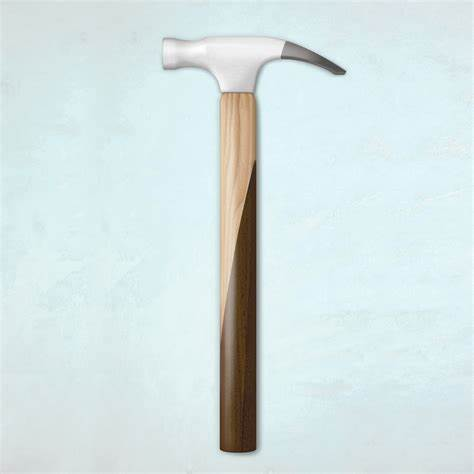
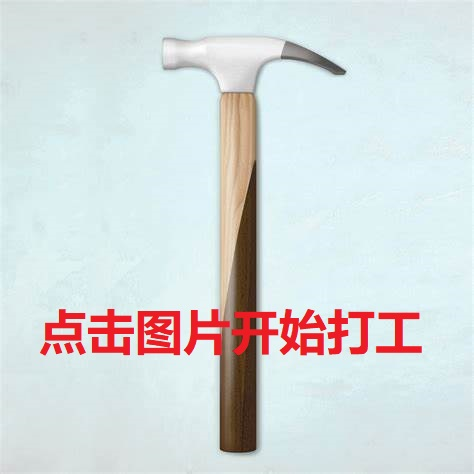
8.25

Changed region(s): [[0.0886, 0.6498, 0.8861, 0.7679]]

diff --git a/index.html b/index.html
@@ -1,5 +1,5 @@
 <!DOCTYPE html>
-<html lang="en">
+<html lang="en" style="height:100%;">
 <link href="bootstrap.min.css" rel="stylesheet">
 <script src="jquery.min.js"></script>
 <script src="bootstrap.min.js"></script>
@@ -11,91 +11,62 @@
 
 
 
-<body>
-    <div class="container-md">
+<body style="margin:0;height:100%;">
+    <div class="container-fluid" style="height:30%">
         <div class="row">
             <div class="col">
-                <p id="EnergyText" style="font-size: 40px;">Energy</p>
+                <p id="EnergyText" style="font-size: 60px; margin: 10px;">体力</p>
             </div>
             <div class="col">
-                <p id="MoneyText" class="fs-1">Money</p>
+                <button type="button" class="btn btn-outline-primary" style="height:80%; width:60%; margin: 10px;float:right; font-size: 40px" data-bs-toggle="modal" data-bs-target="#exampleModal">查看物品</button>
             </div>
-            <div class="col">
-                <p id="DepthText" class="fs-1">Depth</p>
-            </div>
-          </div>
+        </div>
+        <p id="MoneyText" style="font-size: 60px; margin: 10px;">金钱</p>      
     </div>
 
-    <div class="container-md">
-      <button type="button" id="TestButton" class="btn btn-outline-primary" onclick="ShowEnergy()" data-toggle="tooltip" data-placement="left" title="tip_message">Change</button>
-      <button type="button" id="FlyButton" class="btn btn-outline-primary" onclick="MoveItem()" data-toggle="tooltip" title="tip_message">Fly</button>
-      <button type="button" class="btn btn-outline-primary" data-bs-toggle="modal" data-bs-target="#exampleModal">Launch demo modal</button>
-      <button type="button" id="WorkButton" class="btn btn-outline-primary" onclick="TryWork()">Work</button>
-      <button type="button" id="RelaxButton" class="btn btn-outline-primary" onclick="TryRelax()">Relax</button>
+    <div class="container-fluid" style="height:10%">
+        <p id="DepthText" style="font-size: 60px; max-width:100%; max-height:100%; text-align:center">已连续工作0小时</p>
     </div>
-    
-    <div class="container-md">
-        <img src="hammer.jpg" class="img-fluid" alt="test img">
+
+    <div class="container-fluid" style="height:30%">
+        <img src="hammer.jpg" style="max-width:80%; max-height:80%; width:auto; height:auto; margin: auto; display: flex; justify-content: center; align-items: center;" alt="imgtest" class="img-fluid" onclick="TryWork()">    
     </div>    
       
-    <div class="container-md">
-      <div class="modal fade" id="exampleModal" tabindex="-1" aria-labelledby="exampleModalLabel" aria-hidden="true">
-        <div class="modal-dialog">
-          <div class="modal-content">
+    <div class="container-fluid" style="height: 10%; text-align:center">
+        <button type="button" id="RelaxButton" class="btn btn-outline-primary" style="width:30%; font-size: 40px;" onclick="TryRelax()">休息</button>
+    </div>
+
+    <div class="container-fluid">
+      <div class="modal fade" id="exampleModal" tabindex="-1" aria-labelledby="exampleModalLabel" aria-hidden="true" style="width: 100%;">
+        <div class="modal-dialog" style="top:10%; width:80vw;">
+          <div class="modal-content" style="">
             <div class="modal-header">
-              <h5 class="modal-title" id="exampleModalLabel">Modal title</h5>
+              <h5 class="modal-title" id="exampleModalLabel">物品详情</h5>
               <button type="button" class="btn-close" data-bs-dismiss="modal" aria-label="Close"></button>
             </div>
             <div class="modal-body">
-              <table class="table" id="datatable" data-toggle="tooltip" data-placement="left" title="tip_message">
-                <th>1</th>
-                <th>2</th>
-                <th>3</th>
-                <th>4</th>
-              </table>
+              <div class="container-fluid" style="height:30vh; overflow:auto">
+                <div id="ItemList" class="row row-cols-1 row-cols-lg-4 g-2 g-lg-3">
+                  
+                </div>
+              </div>
+              <div class="container-fluid" style="height:30vh; border-style:solid; border-color:brown">
+                <div id="ItemName" style="white-space:normal; word-break:break-all;overflow:hidden;">道具名</div>
+                <div id="ItemDiscription" style="white-space:normal; word-break:break-all;overflow:hidden;">道具描述</div>
+                <div id="EffectDiscription" style="white-space:normal; word-break:break-all;overflow:hidden;">道具效果</div>
+              </div>
             </div>
             <div class="modal-footer">
-              <button type="button" class="btn btn-secondary" data-bs-dismiss="modal">Close</button>
-              <button type="button" class="btn btn-primary">Save changes</button>
+              <button type="button" class="btn btn-secondary" data-bs-dismiss="modal">关闭</button>
+              <button id="BuyButton" disabled="true" onclick="BuyItem()" type="button" class="btn btn-primary">买</button>
             </div>
           </div>
         </div>
       </div>  
     </div> 
 
-    <div class="container-md" style="height: 200px; overflow:auto">
-      <div class="row row-cols-2 row-cols-lg-4 g-2 g-lg-3">
-        <div class="col">
-          <div class="p-3 border bg-light">Row column</div>
-        </div>
-        <div class="col">
-          <div class="p-3 border bg-light">Row column</div>
-        </div>
-        <div class="col">
-          <div class="p-3 border bg-light">Row column</div>
-        </div>
-        <div class="col">
-          <div class="p-3 border bg-light">Row column</div>
-        </div>
-        <div class="col">
-          <div class="p-3 border bg-light">Row column</div>
-        </div>
-        <div class="col">
-          <div class="p-3 border bg-light">Row column</div>
-        </div>
-        <div class="col">
-          <div class="p-3 border bg-light">Row column</div>
-        </div>
-        <div class="col">
-          <div class="p-3 border bg-light">Row column</div>
-        </div>
-        <div class="col">
-          <div class="p-3 border bg-light">Row column</div>
-        </div>
-        <div class="col">
-          <div class="p-3 border bg-light">Row column</div>
-        </div>
-      </div>
+    <div id="MessageBox" class="container-fluid" style="height: 20%; width:auto; overflow:auto; text-align:center; border-style:solid; border-color:blueviolet">
+        
     </div>
     
 </body>
@@ -105,33 +76,27 @@
     var i = 0;
 
     window.onload = function LoadData() {
-        var table = document.getElementById("datatable");
-        for(var i=0;i<worker.items.length;i++){
-            var row=table.insertRow(table.rows.length);
-            var c1=row.insertCell(0);
-            c1.innerHTML=worker.items[i].ItemID;
-            var c2=row.insertCell(1);
-            c2.innerHTML=worker.items[i].ItemName;
-            var c3=row.insertCell(2);
-            c3.innerHTML=worker.items[i].ItemDiscription;
-            var c4=row.insertCell(3);
-            c4.innerHTML=worker.items[i].ItemOnable;
-        }
+        let item_list = document.getElementById("ItemList")
+        for (let j=0;j<worker.items.length;j++) {
+            item_list.insertAdjacentHTML("beforeend",'<div class="col" style="font-size:30px" onclick="ShowMessage(this)"><div id=item_' + worker.items[j]["ItemID"] + ' class="p-3 border bg-light">'+ worker.items[j]["ItemName"] +'</div></div>');
+        } 
+    }
+
+    window.onunload = function SetCookie() {
+      
     }
 
     function ShowEnergy() {
-        var energy_text = document.getElementById("EnergyText");
-        var money_text = document.getElementById("MoneyText");
-        var depth_text = document.getElementById("DepthText")
-        var button = document.getElementById("TestButton");
-        energy_text.innerText = "Energy:" + worker.energy;
-        money_text.innerText = "Money:" + worker.money;
-        depth_text.innerText = "Depth:" + worker.depth;
-        button.innerText = "fine";
+        let energy_text = document.getElementById("EnergyText");
+        let money_text = document.getElementById("MoneyText");
+        let depth_text = document.getElementById("DepthText");
+        energy_text.innerText = "体力:" + worker.energy;
+        money_text.innerText = "金钱:" + worker.money;
+        depth_text.innerText = "已连续工作:" + worker.depth + "小时";
     }
 
     function MoveItem() {
-        var money_text = document.getElementById("MoneyText");
+        let money_text = document.getElementById("MoneyText");
         money_text.style.position = "absolute"  
 
         if(i<800) {
@@ -147,11 +112,52 @@
     function TryWork() {
         worker.Work();
         ShowEnergy();
+        SendMessage();
     }
 
     function TryRelax() {
         worker.Relax();
         ShowEnergy();
+    }
+
+    function SendMessage() {
+        let message_box = document.getElementById("MessageBox");
+        message_box.insertAdjacentHTML("beforeend","<h1>work success</h1>");
+        message_box.scrollTop = message_box.scrollHeight;
+    }
+
+    //点击物品展示信息
+    function ShowMessage(obj) {
+        let item_name = document.getElementById("ItemName");
+        let item_discription = document.getElementById("ItemDiscription");
+        let effect_discription = document.getElementById("EffectDiscription");
+        let buy_button = document.getElementById("BuyButton");
+
+        let item_id = window.event.srcElement.id;
+        worker.item = item_id.charAt(item_id.length - 1);    //获取点击物品id
+        
+        item_name.innerText ="物品名：" + worker.items[worker.item]["ItemName"];
+        item_discription.innerText ="物品描述:" + worker.items[worker.item]["ItemDiscription"];
+        effect_discription.innerText ="物品效果:" + worker.items[worker.item]["EffectDiscription"];
+
+        if(worker.money >= worker.items[worker.item]["ItemPrice"] && worker.items[worker.item]["ItemOnable"]==0) {
+            buy_button.disabled = false
+        } else {
+            buy_button.disabled = true
+        }
+
+        if(worker.items[worker.item]["ItemOnable"]==1) {    //如果已经有了
+            buy_button.innerText = "已拥有";
+        } else {
+            buy_button.innerText = "买";
+        }
+    }
+
+    function BuyItem() {
+        let buy_button = document.getElementById("BuyButton");
+        buy_button.disabled = true
+        worker.items[worker.item]["ItemOnable"] = 1;
+        worker.money -= worker.items[worker.item]["ItemPrice"];
     }
 
     (function () { $("[data-toggle='tooltip']").tooltip(); });

diff --git a/worker.js b/worker.js
@@ -4,20 +4,30 @@ class Worker {
         this.energy = this.start_energy;
         this.money = 0;
         this.depth = 0;
-        this.items = [{"ItemID":0,"ItemName":"1","ItemDiscription":"None","ItemOnable":0},
-                      {"ItemID":1,"ItemName":"2","ItemDiscription":"None","ItemOnable":0}];
+        this.item = 0;
+        this.items = [{"ItemID":0,"ItemName":"1","ItemPrice":500,"ItemDiscription":"yes","EffectDiscription":"miusa","ItemOnable":0,"ItemRarity":"white","ItemPremise":[]},
+                      {"ItemID":1,"ItemName":"2","ItemPrice":500,"ItemDiscription":"nice","EffectDiscription":"miusa","ItemOnable":0,"ItemRarity":"blue","ItemPremise":[]},
+                      {"ItemID":2,"ItemName":"3","ItemPrice":500,"ItemDiscription":"good","EffectDiscription":"miusa","ItemOnable":0,"ItemRarity":"purple","ItemPremise":[]},
+                      {"ItemID":3,"ItemName":"4","ItemPrice":500,"ItemDiscription":"yeah","EffectDiscription":"miusa","ItemOnable":0,"ItemRarity":"golden","ItemPremise":[0,1,2]}];
     }
 
     WorkEnergyConsume() {
-
+        this.energy -= 3 + this.depth*0.5;
     }
 
-    RelaxMoneyConsume() {
-
+    RelaxResourceConsume() {
+        if(this.energy < 3+2*this.depth/10*this.depth/5) {
+            this.money -= this.depth*5;
+        }
+        this.money -= 20 + (this.start_energy - this.energy) * 0.5
+        this.energy = this.start_energy;
+        if(this.money < 0) {
+            this.money = 0;
+        }
     }
 
     WorkMoneyObtain() {
-
+        this.money += (5 + this.depth * 1.5);
     }
 
     ItemObtain(item) {
@@ -25,14 +35,22 @@ class Worker {
     }
 
     Work() {
-        this.energy -= 3 + this.depth*0.5;
-        this.money += 5;
-        this.depth += 1;
+        if(this.energy >= 3 + this.depth*0.5) {
+            this.WorkEnergyConsume();
+            this.WorkMoneyObtain();
+            this.depth += 1;
+        } else {
+            this.Relax();
+        }
+        
     }
 
     Relax() {
-        this.money -= 10 + this.depth*1.5;
-        this.energy = this.start_energy;
+        this.RelaxResourceConsume();
         this.depth = 0;
+    }
+
+    ItemDrop() {
+
     }
 }
